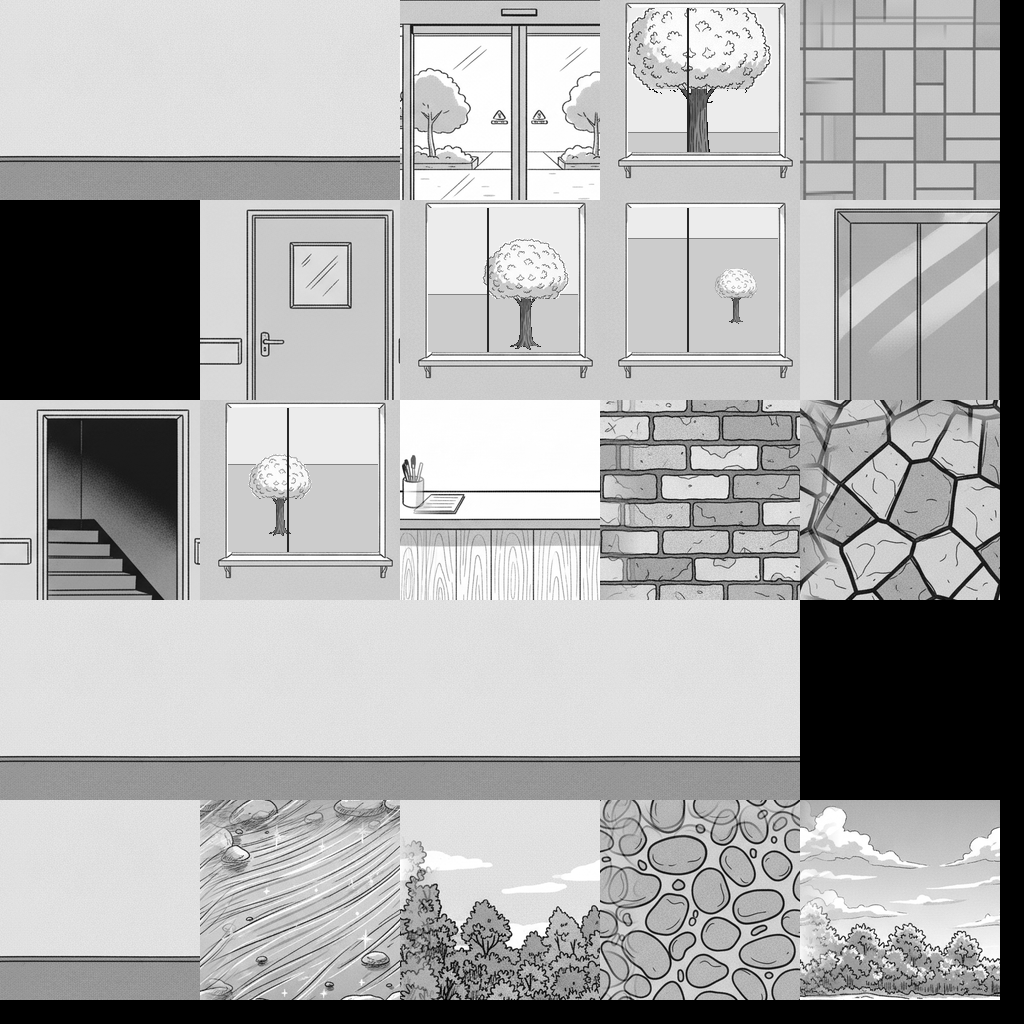
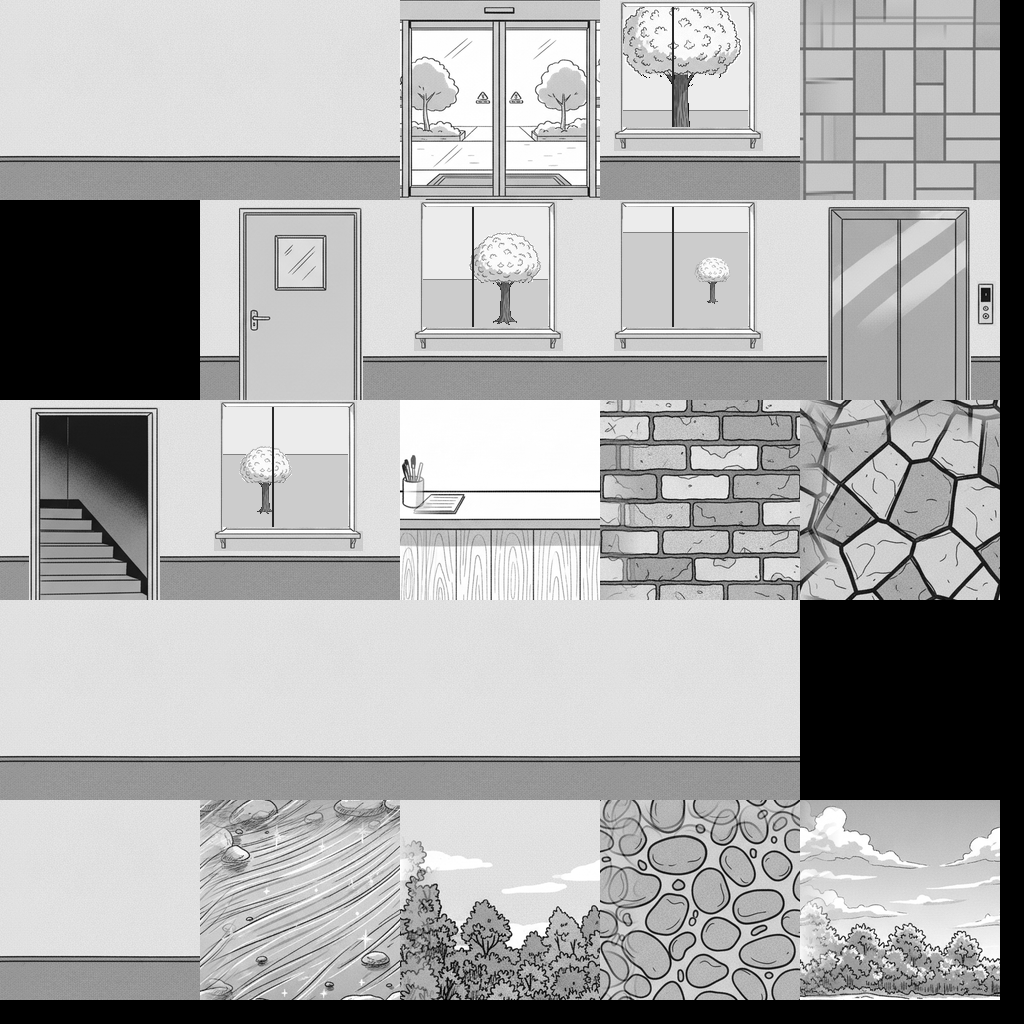
병문안 v0.83: 문, 엘리베이터, 계단, 창이 옆 벽과 이어지게
- 문틀과 그 안만 남기고 둘레를 옆 칸과 같은 복도 벽(징두리판 포함)으로 채움
- 이어 붙이지 않는 그림이 오른쪽과 아래가 잘리던 문제 수정(문 치우침, 호출 버튼 잘림)
- 창 밖 은행나무 자리도 새 크기에 맞춤

Changed region(s): [[0.0, 0.0, 1.0, 0.5938]]

diff --git a/scripts/assets/build-hospital-sheets.js b/scripts/assets/build-hospital-sheets.js
@@ -386,6 +386,8 @@ async function buildSheet(name) {
 const TILE = 200;
 const tileAt = (t) => ({ x: (t % 5) * TILE, y: Math.floor(t / 5) * TILE });
 const WALL = { src: 'tex-walls', box: [76, 76, 469, 466], seam: 'x' };
+// the window and its sill, set into the same wall
+const WINDOW = { src: 'tex-window', box: [62, 309, 469, 726], keep: [[102, 310, 380, 590], [90, 582, 392, 622]] };
 const STRUCTURE = [
   // the corridor wall four ways, so it doesn't look copied: as drawn, mirrored, moved half along, both
   { tile: 0, ...WALL },
@@ -401,14 +403,14 @@ const STRUCTURE = [
   // the floor softened, or its tile lines turn to noise down a corridor; the drawn ceiling came out in perspective
   // and zigzags when repeated, so the ceiling stays painted in code
   { tile: 4, src: 'tex-ground', box: [84, 84, 482, 472], seam: 'xy', soften: 0.5 },
-  { tile: 6, src: 'tex-doors', box: [29, 362, 328, 670] },
+  { tile: 6, src: 'tex-doors', box: [29, 362, 328, 670], keep: [[86, 372, 272, 670]] },
   // a window per floor; the view through each is put in below (VIEWS)
-  { tile: 8, src: 'tex-window', box: [62, 309, 469, 726] },
-  { tile: 3, src: 'tex-window', box: [62, 309, 469, 726] },
-  { tile: 7, src: 'tex-window', box: [62, 309, 469, 726] },
-  { tile: 11, src: 'tex-window', box: [62, 309, 469, 726] },
-  { tile: 9, src: 'tex-doors', box: [366, 362, 660, 670] },
-  { tile: 10, src: 'tex-doors', box: [698, 362, 998, 670] },
+  { tile: 8, ...WINDOW },
+  { tile: 3, ...WINDOW },
+  { tile: 7, ...WINDOW },
+  { tile: 11, ...WINDOW },
+  { tile: 9, src: 'tex-doors', box: [366, 362, 660, 670], keep: [[405, 372, 617, 670], [625, 486, 654, 556]] },
+  { tile: 10, src: 'tex-doors', box: [698, 362, 998, 670], keep: [[741, 372, 937, 670]] },
   { tile: 12, src: 'tex-water', box: [554, 316, 965, 710], seam: 'x' },
   { tile: 13, src: 'tex-walls', box: [552, 76, 947, 466], seam: 'x' },
   { tile: 14, src: 'tex-ground', box: [84, 546, 482, 939], seam: 'xy' },
@@ -444,23 +446,18 @@ const MEMORY = [
 // The glass of the window tile, and what each floor sees through it: the horizon of the courtyard, and the ginkgo
 // (the same drawing as the courtyard's own) at its middle, its foot and its height. From the fourth floor it's small
 // and far down; from the first it fills the glass.
-const GLASS = { x: 28, y: 8, w: 150, h: 144 };
+const GLASS = { x: 23, y: 7, w: 125, h: 120 };
 const VIEWS = [
-  { tile: 8, horizon: 30, x: 108, foot: 116, height: 56 },
-  { tile: 11, horizon: 56, x: 52, foot: 128, height: 82 },
-  { tile: 7, horizon: 86, x: 98, foot: 142, height: 112 },
-  { tile: 3, horizon: 124, x: 70, foot: 168, height: 190 },
+  { tile: 8, horizon: 25, x: 90, foot: 97, height: 47 },
+  { tile: 11, horizon: 47, x: 43, foot: 107, height: 68 },
+  { tile: 7, horizon: 72, x: 82, foot: 118, height: 93 },
+  { tile: 3, horizon: 103, x: 58, foot: 140, height: 158 },
 ];
 
-async function cutTiles(list, sheet) {
-  for (const t of list) {
-    if (t.flat) {
-      const { x: ox, y: oy } = tileAt(t.tile);
-      for (let y = 0; y < TILE; y++) for (let x = 0; x < TILE; x++) sheet[(oy + y) * SHEET + ox + x] = t.flat;
-      continue;
-    }
+/** One tile's pixels, TILE square. Only a tile that repeats is cut a little larger, for the cross-fade at its edges. */
+async function tilePixels(t) {
     const [x0, y0, x1, y1] = t.box;
-    const n = TILE + SEAM;
+    const n = t.seam ? TILE + SEAM : TILE;
     // a little more than a tile: the extra goes into the cross-fade that makes the edges meet
     let { data } = await sharp(path.join(RAW, `${t.src}-raw.png`))
       .extract({ left: x0, top: y0, width: x1 - x0, height: y1 - y0 })
@@ -483,6 +480,27 @@ async function cutTiles(list, sheet) {
         if (t.soften) v = 190 + (v - 190) * t.soften;
         out[y * TILE + x] = Math.round(v);
       }
+    }
+    return out;
+}
+
+async function cutTiles(list, sheet) {
+  for (const t of list) {
+    if (t.flat) {
+      const { x: ox, y: oy } = tileAt(t.tile);
+      for (let y = 0; y < TILE; y++) for (let x = 0; x < TILE; x++) sheet[(oy + y) * SHEET + ox + x] = t.flat;
+      continue;
+    }
+    const out = await tilePixels(t);
+    // A door, the lift, the stairs, a window: only the opening and its frame are kept; round them, the same corridor
+    // wall as the tiles either side, so the wainscot and the plaster run on unbroken.
+    if (t.keep) {
+      const wall = await tilePixels(WALL);
+      const [x0, y0, x1, y1] = t.box;
+      const toX = (rx) => ((rx - x0) / (x1 - x0)) * TILE;
+      const toY = (ry) => ((ry - y0) / (y1 - y0)) * TILE;
+      const inside = (x, y) => t.keep.some(([a, b, c, d]) => x >= toX(a) && x < toX(c) && y >= toY(b) && y < toY(d));
+      for (let y = 0; y < TILE; y++) for (let x = 0; x < TILE; x++) if (!inside(x, y)) out[y * TILE + x] = wall[y * TILE + x];
     }
     const { x: ox, y: oy } = tileAt(t.tile);
     for (let y = 0; y < TILE; y++) {
@@ -526,7 +544,7 @@ async function buildStructure() {
       }
     }
     // the bar down the middle of the window, over the view
-    for (let y = 0; y < GLASS.h; y++) for (const x of [59, 60]) sheet[(oy + GLASS.y + y) * SHEET + ox + GLASS.x + x] = 40;
+    for (let y = 0; y < GLASS.h; y++) for (const x of [49, 50]) sheet[(oy + GLASS.y + y) * SHEET + ox + GLASS.x + x] = 40;
   }
   const file = path.join(SHEETS_OUT, 'sheet-structure.png');
   await sharp(Buffer.from(sheet), { raw: { width: SHEET, height: SHEET, channels: 1 } }).toColourspace('b-w').png({ compressionLevel: 9, palette: false }).toFile(file);

diff --git a/docs/병문안_모티브와_아트_구상.md b/docs/병문안_모티브와_아트_구상.md
@@ -211,6 +211,10 @@ No text. No horror, no blood, no medical equipment close-ups. Portrait orientati
 
 5·6일차: 가을 한옥 마당 배경과 흙바닥, 마루·장기판 상·감나무·대문·손주, 밤 골목 배경과 아스팔트, 우체통·가로등·화분 얹은 돌담·남편. 재시도 없음. 돌담은 잎이 초록이라 쓰지 않았고, 아스팔트는 가장자리 차선을 피해 가운데만 잘랐다. 기억 소품 두 번째 시트 `sheet-memoryprops2.png`. 이번 요청(남은 다섯 이야기)의 호출은 모두 12회다.
 
+### 문과 벽 맞추기 (2026-11-06, 호출 없음)
+
+문, 엘리베이터, 계단, 창 그림에는 제미나이가 그린 벽이 함께 있어 옆 칸의 복도 벽과 어긋났다. `build-hospital-sheets.js`가 문틀과 그 안(엘리베이터는 호출 버튼까지, 창은 창턱까지)만 남기고 둘레를 같은 복도 벽 칸으로 채운다. 이어 붙이지 않는 그림을 이음매용 여유분까지 키운 뒤 잘라 오른쪽과 아래가 잘리던 실수도 고쳤다.
+
 ### 호출 계획
 
 1. **1차 시험 (약 3회):** B1, C1, C5. 분위기가 맞는지, 같은 소녀로 보이는지 확인한다.
